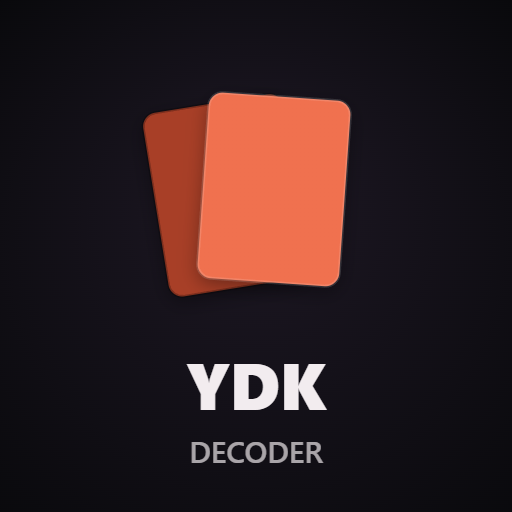
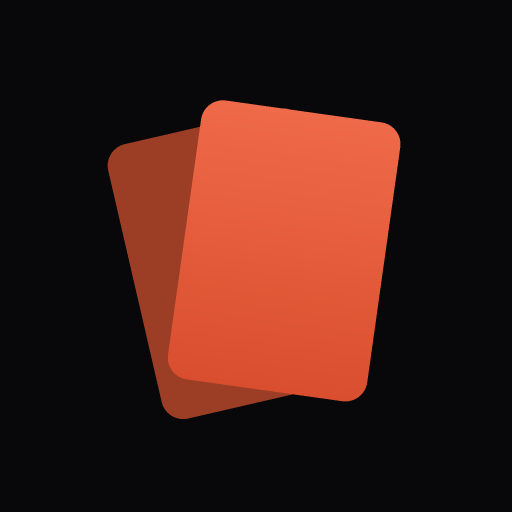
redesign(mobile): screenshot round 3 — bars, gallery, steps, detail chrome + brand pass
Every surface from Abid's 6 screenshots, verified at 375px and 1280px:

- Testing: three EQUAL mode segments on one row (no orphaned wrap); the
  deck picker is a stacked labeled field — one labeled-field pattern
  (caption above full-width control) now shared with Format's "Your deck".
- Format: duplicate title under the picker hidden on mobile (the picker
  already names it); head reads picker+menu / your-deck / caption / add row.
- Combos: List|Gallery segments fill the row; gallery's floating hand->board
  arrows hidden on phones; the step list no longer explodes ACTIVATE/SET
  into full-width pills (was a 1-column collapse at <=720px) — now
  [time - chip - text] with cards below, chips ~46px.
- Detail chrome: while a combo/deck detail is open on mobile, the LIST's
  toolbar+summary hide — the detail owns the screen. Combo detail bar is
  title row then [replay - Edit - ...] (a 58% max-width cap was silently
  shrinking the title row).
- Brand: icons regenerated GLYPH-ONLY (stacked cards in true --accent) via
  scripts/make_icons.mjs (pure-Node PNG encoder, zero deps) so Android's
  auto-splash shows a clean mark instead of a "square box saying YDK
  Decoder"; favicon.svg matched; manifest icons any+maskable; splash cards
  re-colored to the accent family; wordmark is a gradient heavy-serif
  (system fonts, no webfont).

Desktop regression: toolbars visible, title cap 58% intact, 4-col steps,
suffix labels back, inline deck field, 0 overflow, console clean, build clean.

Changed region(s): [[0.1875, 0.1562, 0.7812, 0.8438], [0.375, 0.8438, 0.625, 0.9062]]

diff --git a/app/src/styles/app.css b/app/src/styles/app.css
@@ -1384,7 +1384,14 @@
 .combo-step-detail { font-size: 12.5px; color: var(--text); min-width: 0; }
 .combo-step-cards { display: inline-flex; gap: 5px; flex-wrap: wrap; justify-content: flex-end; }
 .combo-step-cards .combo-thumb { max-width: 150px; }
-@media (max-width: 720px) { .combo-step { grid-template-columns: 1fr; } .combo-step-cards { justify-content: flex-start; } }
+/* Phone: one header line [time · ACTION chip · text] with the cards below —
+   NOT one column per cell (that stretched the action chip into a giant
+   full-width pill). */
+@media (max-width: 720px) {
+  .combo-step { grid-template-columns: auto auto minmax(0, 1fr); row-gap: 6px; }
+  .combo-step-action { justify-self: start; }
+  .combo-step-cards { grid-column: 1 / -1; justify-content: flex-start; }
+}
 
 /* GY / Banished piles (collapsible) */
 .endboard-pile { margin-top: 12px; padding-top: 10px; border-top: 1px dashed var(--border); }
@@ -1664,7 +1671,13 @@
 .combo-gcard-arrow { align-self: center; color: var(--text-faint); font-size: 16px; }
 .combo-gcard-deck { font-size: 10px; color: var(--text-dim); }
 .combo-gcard .combo-thumb { max-width: 158px; }
-@media (max-width: 600px) { .combo-gallery-grid { grid-template-columns: 1fr; } .combo-gcard-cols { grid-template-columns: 1fr; } .combo-gcard-arrow { transform: rotate(90deg); } }
+@media (max-width: 600px) {
+  .combo-gallery-grid { grid-template-columns: 1fr; }
+  .combo-gcard-cols { grid-template-columns: 1fr; gap: 12px; }
+  /* the hand→board arrow is desktop glue; stacked labels already tell the
+     story on a phone, and a floating lone arrow read as clutter */
+  .combo-gcard-arrow { display: none; }
+}
 
 /* Format — add-from-library picker */
 .format-lib-dd .dd-trigger { min-width: 180px; }
@@ -2110,16 +2123,30 @@ header.app-header { margin-bottom: 24px; }
   position: absolute; left: 50%; top: 50%; width: 80px; height: 112px;
   margin: -56px 0 0 -40px; border-radius: 11px;
 }
-.splash-card-back { background: #a83f27; animation: splash-back 720ms cubic-bezier(0.2,0.7,0.3,1) both; }
+/* Cards in the app's true accent family (the old gradient drifted warmer
+   than --accent #e55b3c — Abid clocked it). */
+.splash-card-back { background: #9c3e26; animation: splash-back 720ms cubic-bezier(0.2,0.7,0.3,1) both; }
 .splash-card-front {
-  background: linear-gradient(145deg, #f0714f, #e0512f);
+  background: linear-gradient(150deg, #ef6a49, #d94e2e);
   box-shadow: 0 10px 28px rgba(229,91,60,0.38);
   animation: splash-front 720ms cubic-bezier(0.2,0.7,0.3,1) both;
 }
 @keyframes splash-back  { from { transform: rotate(0) translateY(14px); opacity: 0; } to { transform: rotate(-13deg) translateX(-15px); opacity: 1; } }
 @keyframes splash-front { from { transform: rotate(0) translateY(14px) scale(0.9); opacity: 0; } to { transform: rotate(7deg) translateX(11px); opacity: 1; } }
-.splash-word { font-size: 23px; font-weight: 700; letter-spacing: -0.01em; color: var(--text); opacity: 0; animation: splash-word 460ms ease 360ms both; }
-.splash-word .accent { color: var(--accent); }
+/* Wordmark: chunky beveled serif — the Yu-Gi-Oh-logo energy — done with
+   system fonts (no webfont download): gradient-filled caps with a hard
+   under-edge and an accent glow. */
+.splash-word {
+  font-family: Georgia, "Palatino Linotype", "Times New Roman", serif;
+  font-size: 30px; font-weight: 900; text-transform: uppercase;
+  letter-spacing: 0.06em;
+  transform: skewY(-2.5deg) scaleY(1.08);
+  background: linear-gradient(180deg, #ffd9a8 0%, #ee6e51 48%, #c24a2e 100%);
+  -webkit-background-clip: text; background-clip: text;
+  color: transparent; -webkit-text-fill-color: transparent;
+  filter: drop-shadow(0 2px 0 rgba(90,28,14,0.9)) drop-shadow(0 8px 18px rgba(229,91,60,0.3));
+  opacity: 0; animation: splash-word 460ms ease 360ms both;
+}
 @keyframes splash-word { from { opacity: 0; transform: translateY(8px); } to { opacity: 1; transform: none; } }
 @media (prefers-reduced-motion: reduce) {
   .splash-card, .splash-word { animation: none; opacity: 1; }
@@ -2366,4 +2393,42 @@ header.app-header { align-items: center; }
   .gl-editdeck { margin-left: 0; }
   .gl-opp-row, .gl-sess-row { grid-template-columns: minmax(0, 1fr) auto 40px 56px; gap: 8px; }
   .gl-bar.gl-bar-sm { width: 56px; }
+}
+
+/* ── Mobile bar redesign (2026-08, screenshot round 3) — one visual system:
+   segmented controls fill their row in equal parts, labeled fields stack a
+   tiny caption above a full-width control, and list chrome hides while a
+   detail view is open. Everything scoped ≤640px; desktop untouched. ────── */
+@media (max-width: 640px) {
+  /* Testing modes: three EQUAL segments on one row (no more orphaned
+     "Log games" wrapping below), deck picker as a stacked labeled field. */
+  .testing-modebar .testing-mode-btn {
+    flex: 1 1 0; min-width: 0; justify-content: center;
+    padding: 0 4px; font-size: 12px; white-space: nowrap;
+  }
+  .testing-deck-field { flex-direction: column; align-items: stretch; gap: 4px; margin-left: 0; }
+
+  /* Format head: the picker already names the format — the repeated title
+     below it was pure noise. "Your deck" becomes the same stacked field. */
+  .format-listhead .format-title { display: none; }
+  .format-listhead .format-sub { margin-top: 0; }
+  .format-primary { flex-direction: column; align-items: stretch; gap: 4px; }
+  .format-primary > span { font-size: 10px; }
+
+  /* Combos toolbar: List|Gallery segments fill the row equally. */
+  .combo-viewtoggle { display: flex; width: 100%; }
+  .combo-viewtoggle-btn { flex: 1 1 0; text-align: center; }
+
+  /* While a deck/combo detail is open, the LIST's toolbar is someone else's
+     chrome — hide it, the detail owns the screen (back button returns). */
+  .combos-tab.mobile-detail .combos-toolbar,
+  .decks-tab.mobile-detail .decks-toolbar,
+  .decks-tab.mobile-detail .decks-summary { display: none; }
+
+  /* Combo detail bar: title on its own line, then [replay · Edit · ⋯]. */
+  .combo-detail-bar { row-gap: 8px; }
+  .combo-detail-title { flex: 0 0 auto; width: 100%; max-width: 100%; } /* base rule caps it at 58% for desktop rows */
+  .combo-detail-bar-spacer { display: none; }
+  .combo-detail-bar .back-btn { flex: 1 1 auto; justify-content: center; text-align: center; }
+  .combo-detail-bar .menu-dd, .combo-detail-bar .combo-replay-link { flex: 0 0 auto; }
 }

diff --git a/app/src/tabs/CombosTab.jsx b/app/src/tabs/CombosTab.jsx
@@ -129,7 +129,7 @@ export default function CombosTab({ dataVersion = 0, reload }) {
   ];
 
   return (
-    <div className="combos-tab" onMouseLeave={clearHover}>
+    <div className={"combos-tab" + (mobileDetail ? " mobile-detail" : " mobile-list")} onMouseLeave={clearHover}>
       <input ref={fileRef} type="file" accept=".json,application/json" hidden onChange={onImportFile} />
 
       <div className="combos-toolbar">

diff --git a/app/src/tabs/DecksTab.jsx b/app/src/tabs/DecksTab.jsx
@@ -101,7 +101,7 @@ export default function DecksTab({ dataVersion = 0, reload, jump }) {
   };
 
   return (
-    <div className="decks-tab">
+    <div className={"decks-tab" + (mobileDetail ? " mobile-detail" : " mobile-list")}>
       <input ref={fileRef} type="file" accept=".ydk" hidden onChange={onImportFile} />
 
       <div className="decks-toolbar">

diff --git a/app/src/components/Splash.jsx b/app/src/components/Splash.jsx
@@ -34,7 +34,7 @@ export default function Splash() {
         <span className="splash-card splash-card-back" />
         <span className="splash-card splash-card-front" />
       </div>
-      <div className="splash-word">YDK <span className="accent">Decoder</span></div>
+      <div className="splash-word">YDK Decoder</div>
     </div>
   );
 }

diff --git a/docs/BUGS.md b/docs/BUGS.md
@@ -6,6 +6,37 @@ batch-fix during the next pass.
 
 ---
 
+## ✅ Screenshot round 3 — mobile bar redesign + brand pass (2026-08-08, evening)
+
+Abid sent 6 screenshots. Every one addressed, verified at 375px + 1280px:
+
+- ✅ **Testing modes wrapped ugly** ("Log games" orphaned on row 2, TEST WITH
+  floating far-left) → three EQUAL segments on one row; deck picker is a
+  stacked labeled field (tiny caption above a full-width control — the one
+  labeled-field pattern now used app-wide on mobile).
+- ✅ **Gallery arrows** (lone "↓" floating between panels) → hidden ≤600px;
+  the Starting hand / End board labels carry the story.
+- ✅ **Step list giant ACTIVATE/SET pills** — the ≤720px rule collapsed the
+  4-col step grid to ONE column, stretching the action chip full-width →
+  now [time · chip · text] on one line, cards below; chips are ~46px.
+- ✅ **List|Gallery toggle dead space** → segments fill the row equally.
+- ✅ **Combo detail clutter** — the LIST toolbar (filter/search/toggle/new/
+  import) stayed visible above an open combo → hidden while a detail pane
+  is open (Decks too: toolbar + summary). Detail bar = title row, then
+  [replay · Edit · ⋯] (a 58% max-width cap was silently shrinking the
+  title's full-width row).
+- ✅ **Format head redundancy** — the format name appeared twice (picker +
+  title) → duplicate title hidden on mobile; "Your deck" is a stacked field.
+- ✅ **Launch "square box saying YDK Decoder"** — that was Android's auto
+  splash showing the wordmark-baked icon. Icons regenerated GLYPH-ONLY
+  (two stacked cards, true --accent #e55b3c) via `scripts/make_icons.mjs`
+  (pure-Node PNG encoder, no deps); favicon.svg matched; manifest icons now
+  `any maskable`. Splash cards re-colored to the accent family and the
+  wordmark is a gradient-filled heavy serif (Yu-Gi-Oh-logo energy, system
+  fonts only). Re-add the home-screen shortcut to see the new icon.
+
+---
+
 ## ✅ Symmetry + declutter revamp (2026-08-08, same day, after batch 2)
 
 Abid: "plenty of unsymmetrical design concepts… so condensed and there is so
